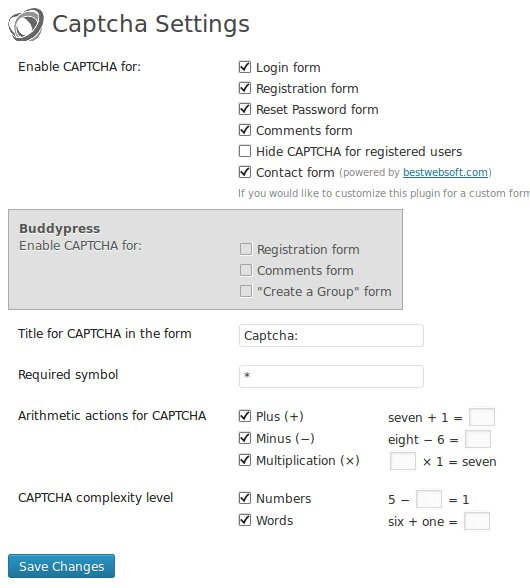
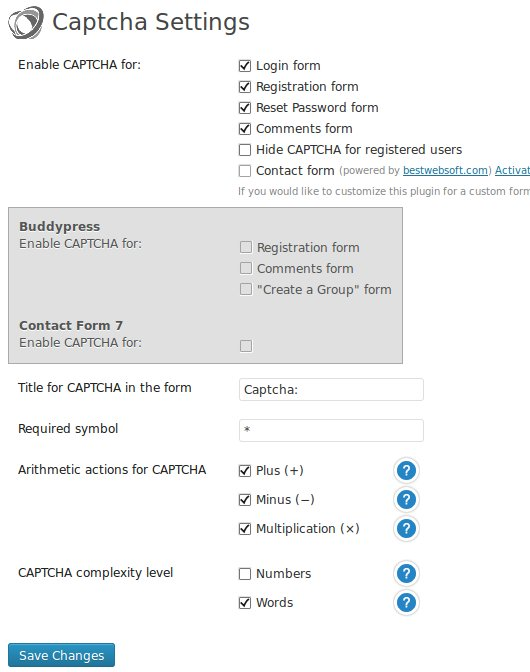
V3.8.7 - We updated all functionality for wordpress 3.7.1. Activation of radio button or checkbox by clicking on its label. We added Tooltips for settings page.
git-svn-id: https://plugins.svn.wordpress.org/captcha/trunk@796678 b8457f37-d9ea-0310-8a92-e5e31aec5664

diff --git a/css/style.css b/css/style.css
@@ -56,6 +56,36 @@
 	direction: ltr;
 }
 /*
+* styles help tooltips
+*/
+.cptch_help_box {
+    background-image: url("../images/tooltip_icons.png");
+    background-repeat: no-repeat;
+    cursor: pointer;
+    float: left;
+    height: 29px;
+    position: relative;
+    margin: -3px 5px 3px;
+    width: 29px;
+    clear: none !important;
+}
+.cptch_hidden_help_text {
+    background: #F4F4F4;
+    border: 1px solid #DCDCDC;
+    border-radius: 4px;
+    left: 40px;
+    padding: 5px 10px;
+    position: absolute;
+    width: 240px;
+    line-height: 1.5;
+}
+.cptch_hidden_help_text:before {
+    content: url("../images/help.png");
+    left: -10px;
+    position: absolute;
+    top: 7px;
+}
+/*
 * styles for pro_version settings, banner and tooltip 
 */
 table.bws_pro_version {	

diff --git a/js/script.js b/js/script.js
@@ -1,0 +1,10 @@
+(function($) {
+	$(document).ready( function() {
+		$( '.cptch_help_box' ).mouseover( function() {
+			$( this ).children().css( 'display', 'block' );
+		});
+		$( '.cptch_help_box' ).mouseout( function() {
+			$( this ).children().css( 'display', 'none' );
+		});
+	});
+})(jQuery);

diff --git a/captcha.php b/captcha.php
@@ -4,12 +4,12 @@ Plugin Name: Captcha
 Plugin URI:  http://bestwebsoft.com/plugin/
 Description: Plugin Captcha intended to prove that the visitor is a human being and not a spam robot. Plugin asks the visitor to answer a math question.
 Author: BestWebSoft
-Version: 3.8.6
+Version: 3.8.7
 Author URI: http://bestwebsoft.com/
 License: GPLv2 or later
 */
 
-/*  © Copyright 2011  BestWebSoft  ( http://support.bestwebsoft.com )
+/*  © Copyright 2013  BestWebSoft  ( http://support.bestwebsoft.com )
 
     This program is free software; you can redistribute it and/or modify
     it under the terms of the GNU General Public License, version 2, as 
@@ -33,6 +33,22 @@ if ( ! function_exists( 'add_cptch_admin_menu' ) ) {
 
 		//call register settings function
 		add_action( 'admin_init', 'register_cptch_settings' );
+	}
+}
+
+/* Function check if plugin is compatible with current WP version  */
+if ( ! function_exists ( 'cptch_version_check' ) ) {
+	function cptch_version_check() {
+		global $wp_version;
+		$plugin_data	=	get_plugin_data( __FILE__, false );
+		$require_wp		=	"3.0"; /* Wordpress at least requires version */
+		$plugin			=	plugin_basename( __FILE__ );
+	 	if ( version_compare( $wp_version, $require_wp, "<" ) ) {
+			if( is_plugin_active( $plugin ) ) {
+				deactivate_plugins( $plugin );
+				wp_die( "<strong>" . $plugin_data['Name'] . " </strong> " . __( 'requires', 'captcha' ) . " <strong>WordPress " . $require_wp . "</strong> " . __( 'or higher, that is why it has been deactivated! Please upgrade WordPress and try again.', 'captcha') . "<br /><br />" . __( 'Back to the WordPress', 'captcha') . " <a href='" . get_admin_url( null, 'plugins.php' ) . "'>" . __( 'Plugins page', 'captcha') . "</a>." );
+			}
+		}
 	}
 }
 
@@ -85,7 +101,7 @@ if ( ! function_exists( 'register_cptch_settings' ) ) {
 				add_site_option( 'cptch_options', $cptch_option_defaults, '', 'yes' );
 			}
 		} else {
-			if( !get_option( 'cptch_options' ) )
+			if ( !get_option( 'cptch_options' ) )
 				add_option( 'cptch_options', $cptch_option_defaults, '', 'yes' );
 		}
 
@@ -102,7 +118,7 @@ if ( ! function_exists( 'register_cptch_settings' ) ) {
 
 // Add global setting for Captcha
 global $wpmu, $str_key, $cptch_time;
-$str_key = "bws_23092013";
+$str_key = "bws_3110013";
 $cptch_time = time();
 
 if ( 1 == $wpmu )
@@ -209,7 +225,7 @@ if ( ! function_exists( 'cptch_settings_page' ) ) {
 			} else {
 				// Update options in the database
 				update_option( 'cptch_options', $cptch_request_options, '', 'yes' );
-				$message = __( "Options saved.", 'captcha' );
+				$message = __( "Settings saved.", 'captcha' );
 			}
 		}
 		// Display form on the setting page
@@ -225,23 +241,21 @@ if ( ! function_exists( 'cptch_settings_page' ) ) {
 						<th scope="row"><?php _e('Enable CAPTCHA for:', 'captcha' ); ?> </th>
 						<td>
 					<?php foreach( $cptch_admin_fields_enable as $fields ) { ?>
-							<input type="checkbox" name="<?php echo $fields[0]; ?>" value="<?php echo $fields[0]; ?>" <?php if( 1 == $cptch_options[$fields[0]] ) echo "checked=\"checked\""; ?> /> <label for="<?php echo $fields[0]; ?>"><?php echo __( $fields[1], 'captcha' ); ?></label><br />
-					<?php }						
+							<label><input type="checkbox" name="<?php echo $fields[0]; ?>" value="<?php echo $fields[0]; ?>" <?php if( 1 == $cptch_options[$fields[0]] ) echo "checked=\"checked\""; ?> /> <?php echo __( $fields[1], 'captcha' ); ?></label><br />
+					<?php }
+					if ( ! function_exists( 'is_plugin_active_for_network' ) )
+						require_once( ABSPATH . '/wp-admin/includes/plugin.php' );						
 					$all_plugins = get_plugins();
-					if ( is_multisite() ){
-						$active_plugins = (array) array_keys( get_site_option( 'active_sitewide_plugins', array() ) );
-						$active_plugins = array_merge( $active_plugins , get_option('active_plugins') );
-					} else {
-						$active_plugins = get_option('active_plugins');
-					}
+					$active_plugins = get_option('active_plugins');
 					if ( array_key_exists('contact-form-plugin/contact_form.php', $all_plugins ) || array_key_exists('contact-form-pro/contact_form_pro.php', $all_plugins ) ) {
-						if ( 0 < count( preg_grep( '/contact-form-plugin\/contact_form.php/', $active_plugins ) ) || 0 < count( preg_grep( '/contact-form-pro\/contact_form_pro.php/', $active_plugins ) ) ) { ?>
-							<input type="checkbox" name="cptch_contact_form" value="1" <?php if( 1 == $cptch_options['cptch_contact_form'] ) echo "checked=\"checked\""; ?> /> <label for="cptch_contact_form"><?php _e( 'Contact form', 'captcha' ); ?></label> <span style="color: #888888;font-size: 10px;">(<?php _e( 'powered by', 'captcha' ); ?> <a href="http://bestwebsoft.com/plugin/">bestwebsoft.com</a>)</span><br />
+						if ( 0 < count( preg_grep( '/contact-form-plugin\/contact_form.php/', $active_plugins ) ) || 0 < count( preg_grep( '/contact-form-pro\/contact_form_pro.php/', $active_plugins ) ) ||
+							is_plugin_active_for_network( 'contact-form-plugin/contact_form.php' ) || is_plugin_active_for_network( 'contact-form-pro/contact_form_pro.php' ) ) { ?>
+							<label><input type="checkbox" name="cptch_contact_form" value="1" <?php if( 1 == $cptch_options['cptch_contact_form'] ) echo "checked=\"checked\""; ?> /> <?php _e( 'Contact form', 'captcha' ); ?></label> <span style="color: #888888;font-size: 10px;">(<?php _e( 'powered by', 'captcha' ); ?> <a href="http://bestwebsoft.com/plugin/">bestwebsoft.com</a>)</span><br />
 					<?php } else { ?>
-							<input disabled='disabled' type="checkbox" name="cptch_contact_form" value="1" <?php if( 1 == $cptch_options['cptch_contact_form'] ) echo "checked=\"checked\""; ?> /> <label for="cptch_contact_form"><?php _e( 'Contact form', 'captcha' ); ?></label> <span style="color: #888888;font-size: 10px;">(<?php _e( 'powered by', 'captcha' ); ?> <a href="http://bestwebsoft.com/plugin/">bestwebsoft.com</a>) <a href="<?php echo bloginfo("url"); ?>/wp-admin/plugins.php"><?php _e( 'Activate contact form', 'captcha' ); ?></a></span><br />
+							<label><input disabled='disabled' type="checkbox" name="cptch_contact_form" value="1" <?php if( 1 == $cptch_options['cptch_contact_form'] ) echo "checked=\"checked\""; ?> /> <?php _e( 'Contact form', 'captcha' ); ?></label> <span style="color: #888888;font-size: 10px;">(<?php _e( 'powered by', 'captcha' ); ?> <a href="http://bestwebsoft.com/plugin/">bestwebsoft.com</a>) <a href="<?php echo bloginfo("url"); ?>/wp-admin/plugins.php"><?php _e( 'Activate contact form', 'captcha' ); ?></a></span><br />
 						<?php }
 					} else { ?>
-							<input disabled='disabled' type="checkbox" name="cptch_contact_form" value="1" <?php if( 1 == $cptch_options['cptch_contact_form'] ) echo "checked=\"checked\""; ?> /> <label for="cptch_contact_form"><?php _e( 'Contact form', 'captcha' ); ?></label> <span style="color: #888888;font-size: 10px;">(<?php _e( 'powered by', 'captcha' ); ?> <a href="http://bestwebsoft.com/plugin/">bestwebsoft.com</a>) <a href="http://bestwebsoft.com/plugin/contact-form-pro/?k=d70b58e1739ab4857d675fed2213cedc&pn=75&v=<?php echo $plugin_info["Version"]; ?>"><?php _e( 'Download contact form', 'captcha' ); ?></a></span><br />
+							<label><input disabled='disabled' type="checkbox" name="cptch_contact_form" value="1" <?php if( 1 == $cptch_options['cptch_contact_form'] ) echo "checked=\"checked\""; ?> /> <?php _e( 'Contact form', 'captcha' ); ?></label> <span style="color: #888888;font-size: 10px;">(<?php _e( 'powered by', 'captcha' ); ?> <a href="http://bestwebsoft.com/plugin/">bestwebsoft.com</a>) <a href="http://bestwebsoft.com/plugin/contact-form-pro/?k=d70b58e1739ab4857d675fed2213cedc&pn=75&v=<?php echo $plugin_info["Version"]; ?>"><?php _e( 'Download contact form', 'captcha' ); ?></a></span><br />
 					<?php } ?>
 							<span style="color: #888888;font-size: 10px;"><?php _e( 'If you would like to customize this plugin for a custom form, please see', 'captcha' ); ?> <a href="http://bestwebsoft.com/plugin/captcha-plugin/#faq" target="_blank">FAQ</a></span>
 						</td>
@@ -257,6 +271,15 @@ if ( ! function_exists( 'cptch_settings_page' ) ) {
 							<input disabled='disabled' type="checkbox" name="cptchpr_buddypress_register_form" value="1" /> <label for="cptchpr_buddypress_register_form"><?php _e( 'Registration form', 'captcha' ); ?></label><br />
 							<input disabled='disabled' type="checkbox" name="cptchpr_buddypress_comment_form" value="1" /> <label for="cptchpr_buddypress_comment_form"><?php _e( 'Comments form', 'captcha' ); ?></label><br />
 							<input disabled='disabled' type="checkbox" name="cptchpr_buddypress_group_form" value="1"  /> <label for="cptchpr_buddypress_group_form"><?php _e( '"Create a Group" form', 'captcha' ); ?></label>
+						</td>
+					</tr>
+					<tr valign="top">
+						<th scope="row">
+							<strong>Contact Form 7</strong><br/>
+							<?php _e( 'Enable CAPTCHA:', 'captcha' ); ?>
+						</th>
+						<td><br/>
+							<input disabled='disabled' type="checkbox" name="cptchpr_cf7" value="1" /><br />
 						</td>
 					</tr>
 				</table> 
@@ -281,7 +304,12 @@ if ( ! function_exists( 'cptch_settings_page' ) ) {
 						<th scope="row"><?php _e( 'Arithmetic actions for CAPTCHA', 'captcha' ); ?></th>
 						<td>
 					<?php foreach( $cptch_admin_fields_actions as $actions ) { ?>
-							<div style="float:left; width:150px;clear: both;"><input type="checkbox" name="<?php echo $actions[0]; ?>" value="<?php echo $cptch_options[$actions[0]]; ?>" <?php if( 1 == $cptch_options[$actions[0]] ) echo "checked=\"checked\""; ?> /> <label for="<?php echo $actions[0]; ?>"><?php echo __( $actions[1], 'captcha' ); ?></label></div><?php cptch_display_example($actions[0]); ?>
+							<div style="float:left; width:150px;clear: both;">
+								<label><input type="checkbox" name="<?php echo $actions[0]; ?>" value="<?php echo $cptch_options[$actions[0]]; ?>" <?php if( 1 == $cptch_options[$actions[0]] ) echo "checked=\"checked\""; ?> /> <?php echo __( $actions[1], 'captcha' ); ?></label>
+							</div>
+							<div class="cptch_help_box">
+								<div class="cptch_hidden_help_text" style="display: none;width: auto;"><?php cptch_display_example( $actions[0] ); ?></div>
+							</div>							
 							<br />
 					<?php } ?>
 						</td>
@@ -290,7 +318,13 @@ if ( ! function_exists( 'cptch_settings_page' ) ) {
 						<th scope="row"><?php _e( 'CAPTCHA complexity level', 'captcha' ); ?></th>
 						<td>
 					<?php foreach( $cptch_admin_fields_difficulty as $diff ) { ?>
-							<div style="float:left; width:150px;clear: both;"><input type="checkbox" name="<?php echo $diff[0]; ?>" value="<?php echo $cptch_options[$diff[0]]; ?>" <?php if( 1 == $cptch_options[$diff[0]] ) echo "checked=\"checked\""; ?> /> <label for="<?php echo $diff[0]; ?>"><?php echo __( $diff[1], 'captcha' ); ?></label></div><?php cptch_display_example($diff[0]); ?><br />
+							<div style="float:left; width:150px;clear: both;">
+								<label><input type="checkbox" name="<?php echo $diff[0]; ?>" value="<?php echo $cptch_options[$diff[0]]; ?>" <?php if( 1 == $cptch_options[$diff[0]] ) echo "checked=\"checked\""; ?> /> <?php echo __( $diff[1], 'captcha' ); ?></label>
+							</div>
+							<div class="cptch_help_box">
+								<div class="cptch_hidden_help_text" style="display: none;width: auto;"><?php cptch_display_example( $diff[0] ); ?></div>
+							</div>
+							<br />
 					<?php } ?>
 						</td>
 					</tr>
@@ -1054,7 +1088,11 @@ if ( ! function_exists ( 'cptch_admin_head' ) ) {
 		wp_register_style( 'cptchStylesheet', plugins_url( 'css/style.css', __FILE__ ) );
 		wp_enqueue_style( 'cptchStylesheet' );
 
-		if ( isset( $_GET['page'] ) && $_GET['page'] == "bws_plugins" )
+		if ( isset( $_REQUEST['page'] ) && 'captcha.php' == $_REQUEST['page'] ) {
+			wp_enqueue_script( 'cptch_script', plugins_url( 'js/script.js', __FILE__ ) );
+		}
+
+		if ( isset( $_GET['page'] ) && "bws_plugins" == $_GET['page'] )
 			wp_enqueue_script( 'bws_menu_script', plugins_url( 'js/bws_menu.js' , __FILE__ ) );
 	}
 }
@@ -1097,8 +1135,8 @@ if ( ! function_exists ( 'cptch_plugin_banner' ) ) {
 // Function for delete delete options
 if ( ! function_exists ( 'cptch_delete_options' ) ) {
 	function cptch_delete_options() {
-		global $wpdb;
 		delete_option( 'cptch_options' );
+		delete_site_option( 'cptch_options' );
 	}
 }
 
@@ -1109,6 +1147,7 @@ add_filter( 'plugin_action_links', 'cptch_plugin_action_links', 10, 2 );
 add_filter( 'plugin_row_meta', 'cptch_register_plugin_links', 10, 2 );
 
 add_action( 'init', 'cptch_plugin_init' );
+add_action( 'admin_init', 'cptch_version_check' );
 add_action( 'admin_init', 'cptch_plugin_init' );
 add_action( 'admin_init', 'cptch_contact_form_options' );
 add_action( 'admin_menu', 'add_cptch_admin_menu' );

diff --git a/bws_menu/bws_menu.php b/bws_menu/bws_menu.php
@@ -5,16 +5,13 @@
 if ( ! function_exists( 'bws_add_menu_render' ) ) {
 	function bws_add_menu_render() {
 		global $wpdb, $wp_version, $title;
+		if ( ! function_exists( 'is_plugin_active_for_network' ) )
+			require_once( ABSPATH . '/wp-admin/includes/plugin.php' );
 		$all_plugins = get_plugins();
 		$error = '';
 		$message = '';
 		$bwsmn_form_email = '';
-		if ( is_multisite() ) {
-			$active_plugins = (array) array_keys( get_site_option( 'active_sitewide_plugins', array() ) );
-			$active_plugins = array_merge( $active_plugins , get_option( 'active_plugins' ) );
-		} else {
-			$active_plugins = get_option( 'active_plugins' );
-		}
+		$active_plugins = get_option( 'active_plugins' );
 
 		$array_activate = array();
 		$array_install	= array();
@@ -38,7 +35,7 @@ if ( ! function_exists( 'bws_add_menu_render' ) ) {
 			array( 'contact-form-to-db\/contact_form_to_db.php', 'Contact Form to DB', 'http://bestwebsoft.com/plugin/contact-form-to-db/', 'http://bestwebsoft.com/plugin/contact-form-to-db/#download', '/wp-admin/plugin-install.php?tab=search&s=Contact+Form+to+DB+bestwebsoft&plugin-search-input=Search+Plugins', 'admin.php?page=cntctfrmtdb_settings' )
 		);
 		foreach ( $array_plugins as $plugins ) {
-			if ( 0 < count( preg_grep( "/".$plugins[0]."/", $active_plugins ) ) ) {
+			if ( 0 < count( preg_grep( "/".$plugins[0]."/", $active_plugins ) ) || is_plugin_active_for_network( str_replace( '\\', '', $plugins[0] ) ) ) {
 				$array_activate[ $count_activate ]["title"]		= $plugins[1];
 				$array_activate[ $count_activate ]["link"]		= $plugins[2];
 				$array_activate[ $count_activate ]["href"]		= $plugins[3];
@@ -69,7 +66,7 @@ if ( ! function_exists( 'bws_add_menu_render' ) ) {
 			array( 'contact-form-to-db-pro\/contact_form_to_db_pro.php', 'Contact Form to DB Pro', 'http://bestwebsoft.com/plugin/contact-form-to-db-pro/?k=6ce5f4a9006ec906e4db643669246c6a', 'http://bestwebsoft.com/plugin/contact-form-to-db-pro/?k=6ce5f4a9006ec906e4db643669246c6a#purchase', 'admin.php?page=cntctfrmtdbpr_settings' )
 		);
 		foreach ( $array_plugins_pro as $plugins ) {
-			if ( 0 < count( preg_grep( "/".$plugins[0]."/", $active_plugins ) ) ) {
+			if ( 0 < count( preg_grep( "/".$plugins[0]."/", $active_plugins ) ) || is_plugin_active_for_network( str_replace( '\\', '', $plugins[0] ) ) ) {
 				$array_activate_pro[ $count_activate_pro ]["title"] = $plugins[1];
 				$array_activate_pro[ $count_activate_pro ]["link"]	= $plugins[2];
 				$array_activate_pro[ $count_activate_pro ]["href"]	= $plugins[3];
